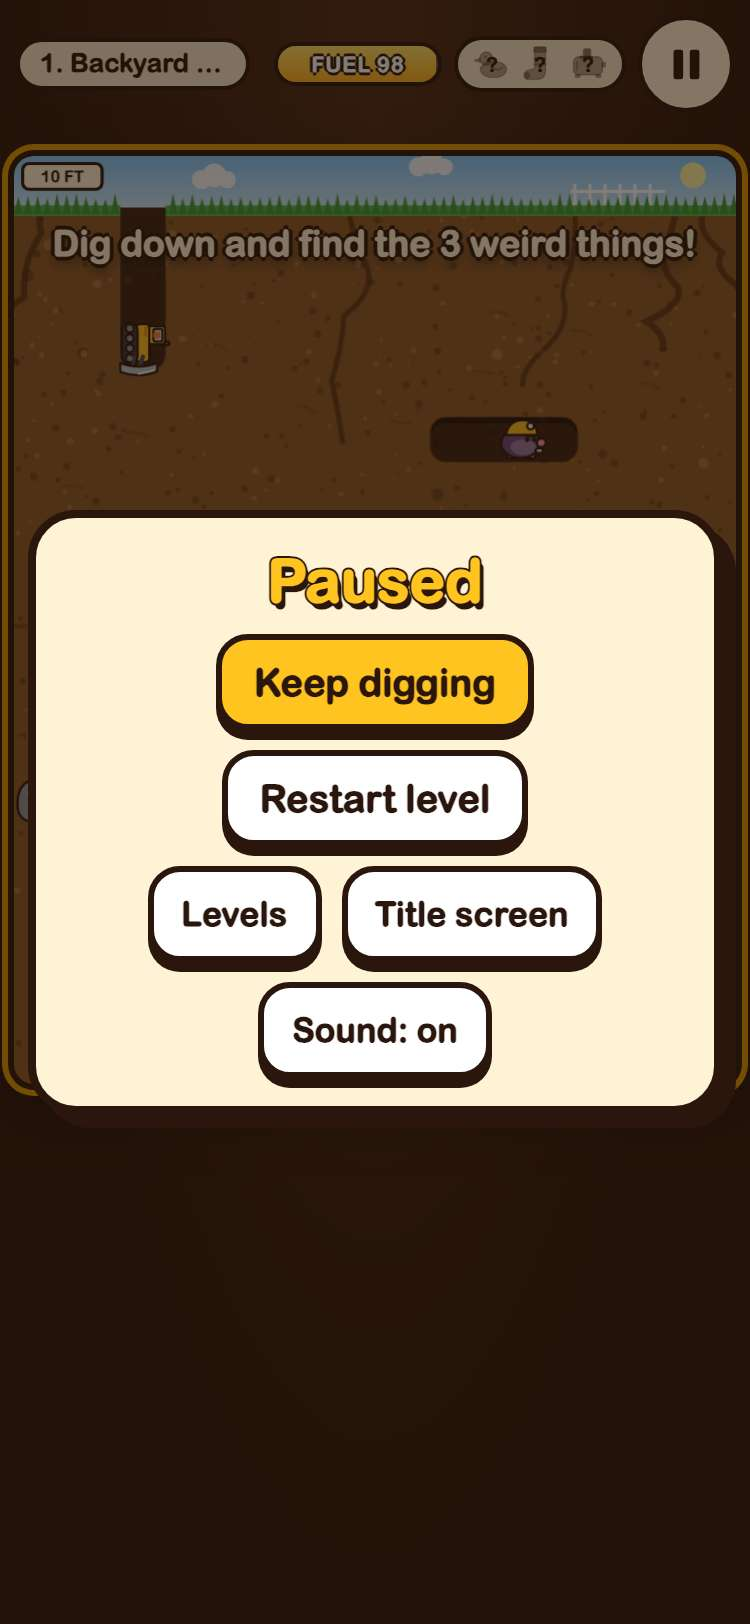
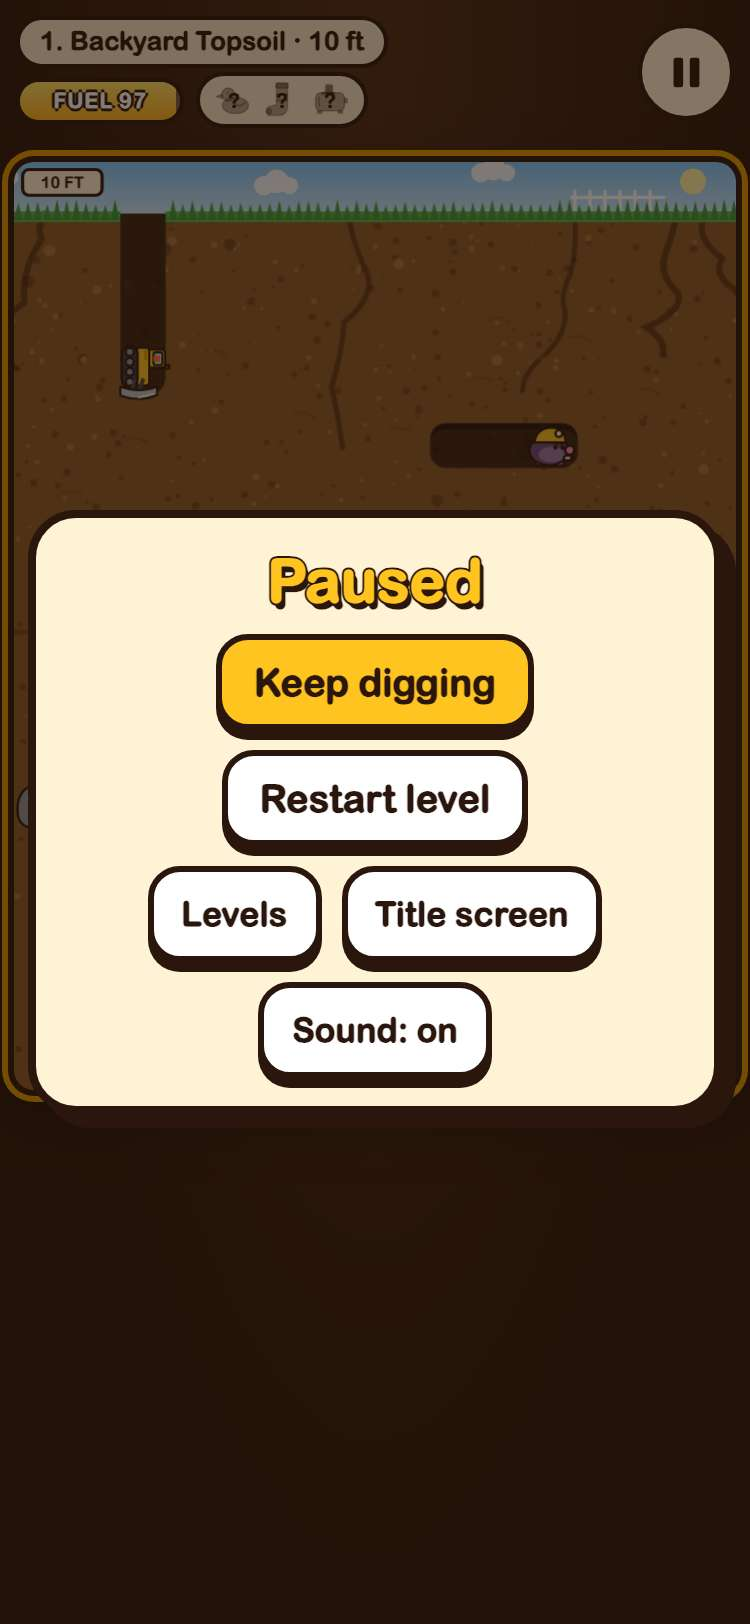
Check the HUD level label against jeremy.v1 and steady the WASD check
Each direction key now starts from the same dug spot on a fresh level.

diff --git a/evidence/217-big-weird-dig-jeremy-v2/index.html b/evidence/217-big-weird-dig-jeremy-v2/index.html
@@ -14,13 +14,14 @@ h1 { font-size: 24px; margin: 0 0 4px; } h2 { font-size: 19px; margin: 28px 0 6p
 .pair img.desktop { width: 640px; } .pair img.phone { width: 220px; }
 </style></head><body>
 <h1>Evidence: 217-big-weird-dig-jeremy-v2</h1>
-<p class="head">PASS: 7 of 7 checks pass at desktop and phone widths.</p>
-<p class="meta">Against the local server (python3 -m http.server) on this branch, from commit 10cdd8c, 2026-10-29 18:08 UTC. Spec: tests/evidence/217-big-weird-dig-jeremy-v2.spec.mjs.</p>
+<p class="head">PASS: 8 of 8 checks pass at desktop and phone widths.</p>
+<p class="meta">Against the local server (python3 -m http.server) on this branch, from commit 278140b, 2026-10-29 19:32 UTC. Spec: tests/evidence/217-big-weird-dig-jeremy-v2.spec.mjs.</p>
 <section><h2>1. jeremy.v2 opens to its title screen and starts level 1, with nothing loaded from the internet</h2><p><span class="s ok">Desktop 1280: pass</span> <span class="s ok">Phone 375: pass</span></p><ul><li>desktop: clicked Dig! and level 1 started; no requests outside the site; no sideways scrolling</li><li>phone: tapped Dig! and level 1 started; no requests outside the site; no sideways scrolling</li></ul><div class="pair"><a href="title-desktop.jpg"><img class="desktop" src="title-desktop.jpg" alt="jeremy.v2 opens to its title screen and starts level 1, with nothing loaded from the internet: title-desktop.jpg" loading="lazy"></a><a href="title-phone.jpg"><img class="phone" src="title-phone.jpg" alt="jeremy.v2 opens to its title screen and starts level 1, with nothing loaded from the internet: title-phone.jpg" loading="lazy"></a></div></section>
-<section><h2>2. every button meets the phone bar: Pause is 48 x 48 and 8 px from the edges, and Sound, Back, Levels and Title screen are 48 px tall</h2><p><span class="s ok">Desktop 1280: pass</span> <span class="s ok">Phone 375: pass</span></p><ul><li>desktop: Pause 48x48, 320 px from the right edge and 8 px from the top. #play-btn 93x52, #levels-btn 118x52, #museum-btn 207x52, #sound-btn 117x48, #levels-back 76x48, #museum-back 76x48, .slot &gt;&gt; nth=0 71x64, #resume-btn 190x52, #restart-btn 183x52, #pause-levels-btn 87x48, #pause-title-btn 131x48, #pause-sound-btn 117x48, #next-btn 168x52, #retry-btn 159x52, #done-museum-btn 155x48, #done-levels-btn 87x48, #empty-retry-btn 148x52, #empty-levels-btn 118x52. touchTargets() found no problems: title: 4 (smallest side 48 px); levels: 9 (smallest side 48 px); museum: 31 (smallest side 48 px); playing: 1 (smallest side 48 px); paused: 5 (smallest side 48 px); level done: 4 (smallest side 48 px); out of fuel: 2 (smallest side 52 px). Sound, Levels, Back, a museum slot, Dig!, Pause, Keep digging and Dig deeper each did their job when clicked</li><li>phone: Pause 48x48, 8 px from the right edge and 8 px from the top. #play-btn 75x48, #levels-btn 97x48, #museum-btn 173x48, #sound-btn 117x48, #levels-back 76x48, #museum-back 76x48, .slot &gt;&gt; nth=0 52x53, #resume-btn 159x48, #restart-btn 153x48, #pause-levels-btn 87x48, #pause-title-btn 131x48, #pause-sound-btn 117x48, #next-btn 140x48, #retry-btn 132x48, #done-museum-btn 155x48, #done-levels-btn 87x48, #empty-retry-btn 123x48, #empty-levels-btn 97x48. touchTargets() found no problems: title: 4 (smallest side 48 px); levels: 9 (smallest side 48 px); museum: 31 (smallest side 48 px); playing: 3 (smallest side 48 px); paused: 5 (smallest side 48 px); level done: 4 (smallest side 48 px); out of fuel: 2 (smallest side 48 px). Sound, Levels, Back, a museum slot, Dig!, Pause, Keep digging and Dig deeper each did their job when tapped; the d-pad drove the bulldozer down</li></ul><div class="pair"><a href="museum-desktop.jpg"><img class="desktop" src="museum-desktop.jpg" alt="every button meets the phone bar: Pause is 48 x 48 and 8 px from the edges, and Sound, Back, Levels and Title screen are 48 px tall: museum-desktop.jpg" loading="lazy"></a><a href="museum-phone.jpg"><img class="phone" src="museum-phone.jpg" alt="every button meets the phone bar: Pause is 48 x 48 and 8 px from the edges, and Sound, Back, Levels and Title screen are 48 px tall: museum-phone.jpg" loading="lazy"></a></div><div class="pair"><a href="playing-desktop.jpg"><img class="desktop" src="playing-desktop.jpg" alt="every button meets the phone bar: Pause is 48 x 48 and 8 px from the edges, and Sound, Back, Levels and Title screen are 48 px tall: playing-desktop.jpg" loading="lazy"></a><a href="playing-phone.jpg"><img class="phone" src="playing-phone.jpg" alt="every button meets the phone bar: Pause is 48 x 48 and 8 px from the edges, and Sound, Back, Levels and Title screen are 48 px tall: playing-phone.jpg" loading="lazy"></a></div><div class="pair"><a href="paused-desktop.jpg"><img class="desktop" src="paused-desktop.jpg" alt="every button meets the phone bar: Pause is 48 x 48 and 8 px from the edges, and Sound, Back, Levels and Title screen are 48 px tall: paused-desktop.jpg" loading="lazy"></a><a href="paused-phone.jpg"><img class="phone" src="paused-phone.jpg" alt="every button meets the phone bar: Pause is 48 x 48 and 8 px from the edges, and Sound, Back, Levels and Title screen are 48 px tall: paused-phone.jpg" loading="lazy"></a></div><div class="pair"><a href="done-desktop.jpg"><img class="desktop" src="done-desktop.jpg" alt="every button meets the phone bar: Pause is 48 x 48 and 8 px from the edges, and Sound, Back, Levels and Title screen are 48 px tall: done-desktop.jpg" loading="lazy"></a><a href="done-phone.jpg"><img class="phone" src="done-phone.jpg" alt="every button meets the phone bar: Pause is 48 x 48 and 8 px from the edges, and Sound, Back, Levels and Title screen are 48 px tall: done-phone.jpg" loading="lazy"></a></div></section>
+<section><h2>2. every button meets the phone bar: Pause is 48 x 48 and 8 px from the edges, and Sound, Back, Levels and Title screen are 48 px tall</h2><p><span class="s ok">Desktop 1280: pass</span> <span class="s ok">Phone 375: pass</span></p><ul><li>desktop: Pause 48x48, 320 px from the right edge and 8 px from the top. #play-btn 93x52, #levels-btn 118x52, #museum-btn 207x52, #sound-btn 117x48, #levels-back 76x48, #museum-back 76x48, .slot &gt;&gt; nth=0 71x64, #resume-btn 190x52, #restart-btn 183x52, #pause-levels-btn 87x48, #pause-title-btn 131x48, #pause-sound-btn 117x48, #next-btn 168x52, #retry-btn 159x52, #done-museum-btn 155x48, #done-levels-btn 87x48, #empty-retry-btn 148x52, #empty-levels-btn 118x52. touchTargets() found no problems: title: 4 (smallest side 48 px); levels: 9 (smallest side 48 px); museum: 31 (smallest side 48 px); playing: 1 (smallest side 48 px); paused: 5 (smallest side 48 px); level done: 4 (smallest side 48 px); out of fuel: 2 (smallest side 52 px). Sound, Levels, Back, a museum slot, Dig!, Pause, Keep digging and Dig deeper each did their job when clicked</li><li>phone: Pause 48x48, 8 px from the right edge and 12 px from the top. #play-btn 75x48, #levels-btn 97x48, #museum-btn 173x48, #sound-btn 117x48, #levels-back 76x48, #museum-back 76x48, .slot &gt;&gt; nth=0 52x53, #resume-btn 159x48, #restart-btn 153x48, #pause-levels-btn 87x48, #pause-title-btn 131x48, #pause-sound-btn 117x48, #next-btn 140x48, #retry-btn 132x48, #done-museum-btn 155x48, #done-levels-btn 87x48, #empty-retry-btn 123x48, #empty-levels-btn 97x48. touchTargets() found no problems: title: 4 (smallest side 48 px); levels: 9 (smallest side 48 px); museum: 31 (smallest side 48 px); playing: 3 (smallest side 48 px); paused: 5 (smallest side 48 px); level done: 4 (smallest side 48 px); out of fuel: 2 (smallest side 48 px). Sound, Levels, Back, a museum slot, Dig!, Pause, Keep digging and Dig deeper each did their job when tapped; the d-pad drove the bulldozer down</li></ul><div class="pair"><a href="museum-desktop.jpg"><img class="desktop" src="museum-desktop.jpg" alt="every button meets the phone bar: Pause is 48 x 48 and 8 px from the edges, and Sound, Back, Levels and Title screen are 48 px tall: museum-desktop.jpg" loading="lazy"></a><a href="museum-phone.jpg"><img class="phone" src="museum-phone.jpg" alt="every button meets the phone bar: Pause is 48 x 48 and 8 px from the edges, and Sound, Back, Levels and Title screen are 48 px tall: museum-phone.jpg" loading="lazy"></a></div><div class="pair"><a href="playing-desktop.jpg"><img class="desktop" src="playing-desktop.jpg" alt="every button meets the phone bar: Pause is 48 x 48 and 8 px from the edges, and Sound, Back, Levels and Title screen are 48 px tall: playing-desktop.jpg" loading="lazy"></a><a href="playing-phone.jpg"><img class="phone" src="playing-phone.jpg" alt="every button meets the phone bar: Pause is 48 x 48 and 8 px from the edges, and Sound, Back, Levels and Title screen are 48 px tall: playing-phone.jpg" loading="lazy"></a></div><div class="pair"><a href="paused-desktop.jpg"><img class="desktop" src="paused-desktop.jpg" alt="every button meets the phone bar: Pause is 48 x 48 and 8 px from the edges, and Sound, Back, Levels and Title screen are 48 px tall: paused-desktop.jpg" loading="lazy"></a><a href="paused-phone.jpg"><img class="phone" src="paused-phone.jpg" alt="every button meets the phone bar: Pause is 48 x 48 and 8 px from the edges, and Sound, Back, Levels and Title screen are 48 px tall: paused-phone.jpg" loading="lazy"></a></div><div class="pair"><a href="done-desktop.jpg"><img class="desktop" src="done-desktop.jpg" alt="every button meets the phone bar: Pause is 48 x 48 and 8 px from the edges, and Sound, Back, Levels and Title screen are 48 px tall: done-desktop.jpg" loading="lazy"></a><a href="done-phone.jpg"><img class="phone" src="done-phone.jpg" alt="every button meets the phone bar: Pause is 48 x 48 and 8 px from the edges, and Sound, Back, Levels and Title screen are 48 px tall: done-phone.jpg" loading="lazy"></a></div></section>
 <section><h2>3. Enter and Space each press the main button on the title, pause, level-done and out-of-fuel screens</h2><p><span class="s ok">Desktop 1280: pass</span> <span class="s ok">Phone 375: pass</span></p><ul><li>desktop: Enter: title → level 1, pause → playing, level done → level 2, out of fuel → level 2 again with a full tank. Space: title → level 1, pause → playing, level done → level 2, out of fuel → level 2 again with a full tank. with Restart level focused, Enter restarted the level instead; a Space pressed as the done screen opened left it open</li><li>phone: Enter: title → level 1, pause → playing, level done → level 2, out of fuel → level 2 again with a full tank. Space: title → level 1, pause → playing, level done → level 2, out of fuel → level 2 again with a full tank. with Restart level focused, Enter restarted the level instead; a Space pressed as the done screen opened left it open</li></ul><div class="pair"><a href="enter-done-desktop.jpg"><img class="desktop" src="enter-done-desktop.jpg" alt="Enter and Space each press the main button on the title, pause, level-done and out-of-fuel screens: enter-done-desktop.jpg" loading="lazy"></a><a href="enter-done-phone.jpg"><img class="phone" src="enter-done-phone.jpg" alt="Enter and Space each press the main button on the title, pause, level-done and out-of-fuel screens: enter-done-phone.jpg" loading="lazy"></a></div></section>
-<section><h2>4. WASD and the arrow keys both drive the bulldozer, and P pauses</h2><p><span class="s ok">Desktop 1280: pass</span> <span class="s ok">Phone 375: pass</span></p><ul><li>desktop: x, y, facing: s: 2.00,0.00,r → 2.00,1.30,d; ArrowDown: 2.00,1.30,d → 2.00,2.61,d; d: 2.00,2.61,d → 2.91,3.00,r; ArrowRight: 2.91,3.00,r → 4.21,3.00,r; a: 4.21,3.00,r → 2.38,3.00,l; ArrowLeft: 2.38,3.00,l → 0.95,3.00,l; w: 0.95,3.00,l → 1.00,1.87,u; ArrowUp: 1.00,1.87,u → 1.00,0.44,u. P paused and P again carried on</li><li>phone: x, y, facing: s: 2.00,0.00,r → 2.00,1.36,d; ArrowDown: 2.00,1.36,d → 2.00,2.72,d; d: 2.00,2.72,d → 3.02,3.00,r; ArrowRight: 3.02,3.00,r → 4.27,3.00,r; a: 4.27,3.00,r → 2.35,3.00,l; ArrowLeft: 2.35,3.00,l → 0.93,3.00,l; w: 0.93,3.00,l → 1.00,1.81,u; ArrowUp: 1.00,1.81,u → 1.00,0.27,u. P paused and P again carried on</li></ul><div class="pair"><a href="keys-desktop.jpg"><img class="desktop" src="keys-desktop.jpg" alt="WASD and the arrow keys both drive the bulldozer, and P pauses: keys-desktop.jpg" loading="lazy"></a><a href="keys-phone.jpg"><img class="phone" src="keys-phone.jpg" alt="WASD and the arrow keys both drive the bulldozer, and P pauses: keys-phone.jpg" loading="lazy"></a></div></section>
-<section><h2>5. jeremy.v1's saves carry over: v2 shows its museum, levels and sound setting, and v1 reads back what v2 adds</h2><p><span class="s ok">Desktop 1280: pass</span> <span class="s ok">Phone 375: pass</span></p><ul><li>desktop: seeded jeremy.v1's museum (duck, sock, toaster), level 2 unlocked with 3 stars on level 1, and sound off: v2 showed all three; Dig! went on at level 2, and clearing it unlocked level 3 under the same keys (gameon.big-weird-dig.museum, gameon.big-weird-dig.progress, gameon.big-weird-dig.sound; nothing new); jeremy.v1 then showed level 3 unlocked and sound off</li><li>phone: seeded jeremy.v1's museum (duck, sock, toaster), level 2 unlocked with 3 stars on level 1, and sound off: v2 showed all three; Dig! went on at level 2, and clearing it unlocked level 3 under the same keys (gameon.big-weird-dig.museum, gameon.big-weird-dig.progress, gameon.big-weird-dig.sound; nothing new); jeremy.v1 then showed level 3 unlocked and sound off</li></ul><div class="pair"><a href="v1-saves-desktop.jpg"><img class="desktop" src="v1-saves-desktop.jpg" alt="jeremy.v1's saves carry over: v2 shows its museum, levels and sound setting, and v1 reads back what v2 adds: v1-saves-desktop.jpg" loading="lazy"></a><a href="v1-saves-phone.jpg"><img class="phone" src="v1-saves-phone.jpg" alt="jeremy.v1's saves carry over: v2 shows its museum, levels and sound setting, and v1 reads back what v2 adds: v1-saves-phone.jpg" loading="lazy"></a></div></section>
-<section><h2>6. jeremy.v1 still plays at games/big-weird-dig/, unchanged</h2><p><span class="s ok">Desktop 1280: pass</span> <span class="s ok">Phone 375: pass</span></p><ul><li>desktop: jeremy.v1 at games/big-weird-dig/: its title, Dig!, and the arrow keys dug a tunnel; its Pause button is still 28x28, as before</li><li>phone: jeremy.v1 at games/big-weird-dig/: its title, Dig!, and the arrow keys dug a tunnel; its Pause button is still 28x28, as before</li></ul><div class="pair"><a href="v1-plays-desktop.jpg"><img class="desktop" src="v1-plays-desktop.jpg" alt="jeremy.v1 still plays at games/big-weird-dig/, unchanged: v1-plays-desktop.jpg" loading="lazy"></a><a href="v1-plays-phone.jpg"><img class="phone" src="v1-plays-phone.jpg" alt="jeremy.v1 still plays at games/big-weird-dig/, unchanged: v1-plays-phone.jpg" loading="lazy"></a></div></section>
-<section><h2>7. in the arcade, Big Weird Dig plays jeremy.v2 by default and the picker still offers jeremy.v1</h2><p><span class="s ok">Desktop 1280: pass</span> <span class="s ok">Phone 375: pass</span></p><ul><li>desktop: card (2 versions) → picker: jeremy.v2 first with its note, then jeremy.v1 → jeremy.v2 plays in the frame; #big-weird-dig@jeremy.v1 opens jeremy.v1</li><li>phone: card (2 versions) → picker: jeremy.v2 first with its note, then jeremy.v1 → jeremy.v2 plays in the frame; #big-weird-dig@jeremy.v1 opens jeremy.v1</li></ul><div class="pair"><a href="arcade-desktop.jpg"><img class="desktop" src="arcade-desktop.jpg" alt="in the arcade, Big Weird Dig plays jeremy.v2 by default and the picker still offers jeremy.v1: arcade-desktop.jpg" loading="lazy"></a><a href="arcade-phone.jpg"><img class="phone" src="arcade-phone.jpg" alt="in the arcade, Big Weird Dig plays jeremy.v2 by default and the picker still offers jeremy.v1: arcade-phone.jpg" loading="lazy"></a></div></section>
+<section><h2>4. WASD and the arrow keys both drive the bulldozer the same way, and P pauses</h2><p><span class="s ok">Desktop 1280: pass</span> <span class="s ok">Phone 375: pass</span></p><ul><li>desktop: from the same spot each time (x, y): s: 2.00,2.55 → 2.00,5.33; ArrowDown: 2.00,2.27 → 2.00,4.31; d: 2.00,2.61 → 3.98,3.00; ArrowRight: 2.00,2.95 → 4.15,3.00; a: 2.00,3.40 → 0.19,3.00; ArrowLeft: 2.00,2.66 → 0.07,3.00; w: 2.00,4.53 → 2.00,1.03; ArrowUp: 2.00,3.40 → 2.00,0.00. P paused and P again carried on</li><li>phone: from the same spot each time (x, y): s: 2.00,2.21 → 2.00,3.74; ArrowDown: 2.00,2.44 → 2.00,4.14; d: 2.00,2.38 → 3.30,2.00; ArrowRight: 2.00,2.21 → 3.64,2.00; a: 2.00,2.21 → 0.64,2.00; ArrowLeft: 2.00,2.38 → 0.13,2.00; w: 2.00,2.32 → 2.00,0.16; ArrowUp: 2.00,2.15 → 2.00,0.00. P paused and P again carried on</li></ul><div class="pair"><a href="keys-desktop.jpg"><img class="desktop" src="keys-desktop.jpg" alt="WASD and the arrow keys both drive the bulldozer the same way, and P pauses: keys-desktop.jpg" loading="lazy"></a><a href="keys-phone.jpg"><img class="phone" src="keys-phone.jpg" alt="WASD and the arrow keys both drive the bulldozer the same way, and P pauses: keys-phone.jpg" loading="lazy"></a></div></section>
+<section><h2>5. the HUD's level name has at least jeremy.v1's room on every level at 375 and 320 px, with fuel, finds and the board no smaller</h2><p><span class="s ok">Desktop 1280: pass</span> <span class="s ok">Phone 375: pass</span></p><ul><li>desktop: 375 px, #hud-level v1 → v2: 1: 137 (cut) → 182, 2: 137 (cut) → 155, 3: 113 (cut) → 149, 4: 113 (cut) → 180, 5: 113 (cut) → 187, 6: 113 (cut) → 154, 7: 113 (cut) → 169, 8: 113 (cut) → 228; fuel 84 → 84; board 361x464 → 361x464. 320 px, #hud-level v1 → v2: 1: 82 (cut) → 182, 2: 82 (cut) → 155, 3: 58 (cut) → 149, 4: 58 (cut) → 180, 5: 58 (cut) → 187, 6: 58 (cut) → 154, 7: 58 (cut) → 169, 8: 58 (cut) → 228; fuel 84 → 84; board 308x396 → 308x396. Every name shows whole in v2</li><li>phone: 375 px, #hud-level v1 → v2: 1: 137 (cut) → 182, 2: 137 (cut) → 155, 3: 113 (cut) → 149, 4: 113 (cut) → 180, 5: 113 (cut) → 187, 6: 113 (cut) → 154, 7: 113 (cut) → 169, 8: 113 (cut) → 228; fuel 84 → 84; board 361x464 → 361x464. 320 px, #hud-level v1 → v2: 1: 82 (cut) → 182, 2: 82 (cut) → 155, 3: 58 (cut) → 149, 4: 58 (cut) → 180, 5: 58 (cut) → 187, 6: 58 (cut) → 154, 7: 58 (cut) → 169, 8: 58 (cut) → 228; fuel 84 → 84; board 308x396 → 308x396. Every name shows whole in v2</li></ul><div class="pair"><a href="hud-375-desktop.jpg"><img class="desktop" src="hud-375-desktop.jpg" alt="the HUD's level name has at least jeremy.v1's room on every level at 375 and 320 px, with fuel, finds and the board no smaller: hud-375-desktop.jpg" loading="lazy"></a><a href="hud-375-phone.jpg"><img class="phone" src="hud-375-phone.jpg" alt="the HUD's level name has at least jeremy.v1's room on every level at 375 and 320 px, with fuel, finds and the board no smaller: hud-375-phone.jpg" loading="lazy"></a></div></section>
+<section><h2>6. jeremy.v1's saves carry over: v2 shows its museum, levels and sound setting, and v1 reads back what v2 adds</h2><p><span class="s ok">Desktop 1280: pass</span> <span class="s ok">Phone 375: pass</span></p><ul><li>desktop: seeded jeremy.v1's museum (duck, sock, toaster), level 2 unlocked with 3 stars on level 1, and sound off: v2 showed all three; Dig! went on at level 2, and clearing it unlocked level 3 under the same keys (gameon.big-weird-dig.museum, gameon.big-weird-dig.progress, gameon.big-weird-dig.sound; nothing new); jeremy.v1 then showed level 3 unlocked and sound off</li><li>phone: seeded jeremy.v1's museum (duck, sock, toaster), level 2 unlocked with 3 stars on level 1, and sound off: v2 showed all three; Dig! went on at level 2, and clearing it unlocked level 3 under the same keys (gameon.big-weird-dig.museum, gameon.big-weird-dig.progress, gameon.big-weird-dig.sound; nothing new); jeremy.v1 then showed level 3 unlocked and sound off</li></ul><div class="pair"><a href="v1-saves-desktop.jpg"><img class="desktop" src="v1-saves-desktop.jpg" alt="jeremy.v1's saves carry over: v2 shows its museum, levels and sound setting, and v1 reads back what v2 adds: v1-saves-desktop.jpg" loading="lazy"></a><a href="v1-saves-phone.jpg"><img class="phone" src="v1-saves-phone.jpg" alt="jeremy.v1's saves carry over: v2 shows its museum, levels and sound setting, and v1 reads back what v2 adds: v1-saves-phone.jpg" loading="lazy"></a></div></section>
+<section><h2>7. jeremy.v1 still plays at games/big-weird-dig/, unchanged</h2><p><span class="s ok">Desktop 1280: pass</span> <span class="s ok">Phone 375: pass</span></p><ul><li>desktop: jeremy.v1 at games/big-weird-dig/: its title, Dig!, and the arrow keys dug a tunnel; its Pause button is still 28x28, as before</li><li>phone: jeremy.v1 at games/big-weird-dig/: its title, Dig!, and the arrow keys dug a tunnel; its Pause button is still 28x28, as before</li></ul><div class="pair"><a href="v1-plays-desktop.jpg"><img class="desktop" src="v1-plays-desktop.jpg" alt="jeremy.v1 still plays at games/big-weird-dig/, unchanged: v1-plays-desktop.jpg" loading="lazy"></a><a href="v1-plays-phone.jpg"><img class="phone" src="v1-plays-phone.jpg" alt="jeremy.v1 still plays at games/big-weird-dig/, unchanged: v1-plays-phone.jpg" loading="lazy"></a></div></section>
+<section><h2>8. in the arcade, Big Weird Dig plays jeremy.v2 by default and the picker still offers jeremy.v1</h2><p><span class="s ok">Desktop 1280: pass</span> <span class="s ok">Phone 375: pass</span></p><ul><li>desktop: card (2 versions) → picker: jeremy.v2 first with its note, then jeremy.v1 → jeremy.v2 plays in the frame; #big-weird-dig@jeremy.v1 opens jeremy.v1</li><li>phone: card (2 versions) → picker: jeremy.v2 first with its note, then jeremy.v1 → jeremy.v2 plays in the frame; #big-weird-dig@jeremy.v1 opens jeremy.v1</li></ul><div class="pair"><a href="arcade-desktop.jpg"><img class="desktop" src="arcade-desktop.jpg" alt="in the arcade, Big Weird Dig plays jeremy.v2 by default and the picker still offers jeremy.v1: arcade-desktop.jpg" loading="lazy"></a><a href="arcade-phone.jpg"><img class="phone" src="arcade-phone.jpg" alt="in the arcade, Big Weird Dig plays jeremy.v2 by default and the picker still offers jeremy.v1: arcade-phone.jpg" loading="lazy"></a></div></section>
 </body></html>

diff --git a/evidence/217-big-weird-dig-jeremy-v2/README.md b/evidence/217-big-weird-dig-jeremy-v2/README.md
@@ -1,15 +1,16 @@
 # Evidence: 217-big-weird-dig-jeremy-v2
 
-**PASS: 7 of 7 checks pass at desktop and phone widths.**
+**PASS: 8 of 8 checks pass at desktop and phone widths.**
 
-Generated by `npm run evidence -- 217-big-weird-dig-jeremy-v2` from [`tests/evidence/217-big-weird-dig-jeremy-v2.spec.mjs`](../../tests/evidence/217-big-weird-dig-jeremy-v2.spec.mjs) against the local server (python3 -m http.server) on this branch, starting from commit 10cdd8c, 2026-10-29 18:08 UTC. Rules: [docs/evidence.md](../../docs/evidence.md).
+Generated by `npm run evidence -- 217-big-weird-dig-jeremy-v2` from [`tests/evidence/217-big-weird-dig-jeremy-v2.spec.mjs`](../../tests/evidence/217-big-weird-dig-jeremy-v2.spec.mjs) against the local server (python3 -m http.server) on this branch, starting from commit 278140b, 2026-10-29 19:32 UTC. Rules: [docs/evidence.md](../../docs/evidence.md).
 
 | Check | Desktop 1280 | Phone 375 |
 |---|---|---|
 | jeremy.v2 opens to its title screen and starts level 1, with nothing loaded from the internet | pass | pass |
 | every button meets the phone bar: Pause is 48 x 48 and 8 px from the edges, and Sound, Back, Levels and Title screen are 48 px tall | pass | pass |
 | Enter and Space each press the main button on the title, pause, level-done and out-of-fuel screens | pass | pass |
-| WASD and the arrow keys both drive the bulldozer, and P pauses | pass | pass |
+| WASD and the arrow keys both drive the bulldozer the same way, and P pauses | pass | pass |
+| the HUD's level name has at least jeremy.v1's room on every level at 375 and 320 px, with fuel, finds and the board no smaller | pass | pass |
 | jeremy.v1's saves carry over: v2 shows its museum, levels and sound setting, and v1 reads back what v2 adds | pass | pass |
 | jeremy.v1 still plays at games/big-weird-dig/, unchanged | pass | pass |
 | in the arcade, Big Weird Dig plays jeremy.v2 by default and the picker still offers jeremy.v1 | pass | pass |
@@ -24,7 +25,7 @@ Generated by `npm run evidence -- 217-big-weird-dig-jeremy-v2` from [`tests/evid
 ## 2. every button meets the phone bar: Pause is 48 x 48 and 8 px from the edges, and Sound, Back, Levels and Title screen are 48 px tall
 
 - desktop: Pause 48x48, 320 px from the right edge and 8 px from the top. #play-btn 93x52, #levels-btn 118x52, #museum-btn 207x52, #sound-btn 117x48, #levels-back 76x48, #museum-back 76x48, .slot >> nth=0 71x64, #resume-btn 190x52, #restart-btn 183x52, #pause-levels-btn 87x48, #pause-title-btn 131x48, #pause-sound-btn 117x48, #next-btn 168x52, #retry-btn 159x52, #done-museum-btn 155x48, #done-levels-btn 87x48, #empty-retry-btn 148x52, #empty-levels-btn 118x52. touchTargets() found no problems: title: 4 (smallest side 48 px); levels: 9 (smallest side 48 px); museum: 31 (smallest side 48 px); playing: 1 (smallest side 48 px); paused: 5 (smallest side 48 px); level done: 4 (smallest side 48 px); out of fuel: 2 (smallest side 52 px). Sound, Levels, Back, a museum slot, Dig!, Pause, Keep digging and Dig deeper each did their job when clicked
-- phone: Pause 48x48, 8 px from the right edge and 8 px from the top. #play-btn 75x48, #levels-btn 97x48, #museum-btn 173x48, #sound-btn 117x48, #levels-back 76x48, #museum-back 76x48, .slot >> nth=0 52x53, #resume-btn 159x48, #restart-btn 153x48, #pause-levels-btn 87x48, #pause-title-btn 131x48, #pause-sound-btn 117x48, #next-btn 140x48, #retry-btn 132x48, #done-museum-btn 155x48, #done-levels-btn 87x48, #empty-retry-btn 123x48, #empty-levels-btn 97x48. touchTargets() found no problems: title: 4 (smallest side 48 px); levels: 9 (smallest side 48 px); museum: 31 (smallest side 48 px); playing: 3 (smallest side 48 px); paused: 5 (smallest side 48 px); level done: 4 (smallest side 48 px); out of fuel: 2 (smallest side 48 px). Sound, Levels, Back, a museum slot, Dig!, Pause, Keep digging and Dig deeper each did their job when tapped; the d-pad drove the bulldozer down
+- phone: Pause 48x48, 8 px from the right edge and 12 px from the top. #play-btn 75x48, #levels-btn 97x48, #museum-btn 173x48, #sound-btn 117x48, #levels-back 76x48, #museum-back 76x48, .slot >> nth=0 52x53, #resume-btn 159x48, #restart-btn 153x48, #pause-levels-btn 87x48, #pause-title-btn 131x48, #pause-sound-btn 117x48, #next-btn 140x48, #retry-btn 132x48, #done-museum-btn 155x48, #done-levels-btn 87x48, #empty-retry-btn 123x48, #empty-levels-btn 97x48. touchTargets() found no problems: title: 4 (smallest side 48 px); levels: 9 (smallest side 48 px); museum: 31 (smallest side 48 px); playing: 3 (smallest side 48 px); paused: 5 (smallest side 48 px); level done: 4 (smallest side 48 px); out of fuel: 2 (smallest side 48 px). Sound, Levels, Back, a museum slot, Dig!, Pause, Keep digging and Dig deeper each did their job when tapped; the d-pad drove the bulldozer down
 
 <img src="museum-desktop.jpg" alt="every button meets the phone bar: Pause is 48 x 48 and 8 px from the edges, and Sound, Back, Levels and Title screen are 48 px tall: museum-desktop.jpg" width="560"> <img src="museum-phone.jpg" alt="every button meets the phone bar: Pause is 48 x 48 and 8 px from the edges, and Sound, Back, Levels and Title screen are 48 px tall: museum-phone.jpg" width="240">
 
@@ -41,28 +42,35 @@ Generated by `npm run evidence -- 217-big-weird-dig-jeremy-v2` from [`tests/evid
 
 <img src="enter-done-desktop.jpg" alt="Enter and Space each press the main button on the title, pause, level-done and out-of-fuel screens: enter-done-desktop.jpg" width="560"> <img src="enter-done-phone.jpg" alt="Enter and Space each press the main button on the title, pause, level-done and out-of-fuel screens: enter-done-phone.jpg" width="240">
 
-## 4. WASD and the arrow keys both drive the bulldozer, and P pauses
+## 4. WASD and the arrow keys both drive the bulldozer the same way, and P pauses
 
-- desktop: x, y, facing: s: 2.00,0.00,r → 2.00,1.30,d; ArrowDown: 2.00,1.30,d → 2.00,2.61,d; d: 2.00,2.61,d → 2.91,3.00,r; ArrowRight: 2.91,3.00,r → 4.21,3.00,r; a: 4.21,3.00,r → 2.38,3.00,l; ArrowLeft: 2.38,3.00,l → 0.95,3.00,l; w: 0.95,3.00,l → 1.00,1.87,u; ArrowUp: 1.00,1.87,u → 1.00,0.44,u. P paused and P again carried on
-- phone: x, y, facing: s: 2.00,0.00,r → 2.00,1.36,d; ArrowDown: 2.00,1.36,d → 2.00,2.72,d; d: 2.00,2.72,d → 3.02,3.00,r; ArrowRight: 3.02,3.00,r → 4.27,3.00,r; a: 4.27,3.00,r → 2.35,3.00,l; ArrowLeft: 2.35,3.00,l → 0.93,3.00,l; w: 0.93,3.00,l → 1.00,1.81,u; ArrowUp: 1.00,1.81,u → 1.00,0.27,u. P paused and P again carried on
+- desktop: from the same spot each time (x, y): s: 2.00,2.55 → 2.00,5.33; ArrowDown: 2.00,2.27 → 2.00,4.31; d: 2.00,2.61 → 3.98,3.00; ArrowRight: 2.00,2.95 → 4.15,3.00; a: 2.00,3.40 → 0.19,3.00; ArrowLeft: 2.00,2.66 → 0.07,3.00; w: 2.00,4.53 → 2.00,1.03; ArrowUp: 2.00,3.40 → 2.00,0.00. P paused and P again carried on
+- phone: from the same spot each time (x, y): s: 2.00,2.21 → 2.00,3.74; ArrowDown: 2.00,2.44 → 2.00,4.14; d: 2.00,2.38 → 3.30,2.00; ArrowRight: 2.00,2.21 → 3.64,2.00; a: 2.00,2.21 → 0.64,2.00; ArrowLeft: 2.00,2.38 → 0.13,2.00; w: 2.00,2.32 → 2.00,0.16; ArrowUp: 2.00,2.15 → 2.00,0.00. P paused and P again carried on
 
-<img src="keys-desktop.jpg" alt="WASD and the arrow keys both drive the bulldozer, and P pauses: keys-desktop.jpg" width="560"> <img src="keys-phone.jpg" alt="WASD and the arrow keys both drive the bulldozer, and P pauses: keys-phone.jpg" width="240">
+<img src="keys-desktop.jpg" alt="WASD and the arrow keys both drive the bulldozer the same way, and P pauses: keys-desktop.jpg" width="560"> <img src="keys-phone.jpg" alt="WASD and the arrow keys both drive the bulldozer the same way, and P pauses: keys-phone.jpg" width="240">
 
-## 5. jeremy.v1's saves carry over: v2 shows its museum, levels and sound setting, and v1 reads back what v2 adds
+## 5. the HUD's level name has at least jeremy.v1's room on every level at 375 and 320 px, with fuel, finds and the board no smaller
+
+- desktop: 375 px, #hud-level v1 → v2: 1: 137 (cut) → 182, 2: 137 (cut) → 155, 3: 113 (cut) → 149, 4: 113 (cut) → 180, 5: 113 (cut) → 187, 6: 113 (cut) → 154, 7: 113 (cut) → 169, 8: 113 (cut) → 228; fuel 84 → 84; board 361x464 → 361x464. 320 px, #hud-level v1 → v2: 1: 82 (cut) → 182, 2: 82 (cut) → 155, 3: 58 (cut) → 149, 4: 58 (cut) → 180, 5: 58 (cut) → 187, 6: 58 (cut) → 154, 7: 58 (cut) → 169, 8: 58 (cut) → 228; fuel 84 → 84; board 308x396 → 308x396. Every name shows whole in v2
+- phone: 375 px, #hud-level v1 → v2: 1: 137 (cut) → 182, 2: 137 (cut) → 155, 3: 113 (cut) → 149, 4: 113 (cut) → 180, 5: 113 (cut) → 187, 6: 113 (cut) → 154, 7: 113 (cut) → 169, 8: 113 (cut) → 228; fuel 84 → 84; board 361x464 → 361x464. 320 px, #hud-level v1 → v2: 1: 82 (cut) → 182, 2: 82 (cut) → 155, 3: 58 (cut) → 149, 4: 58 (cut) → 180, 5: 58 (cut) → 187, 6: 58 (cut) → 154, 7: 58 (cut) → 169, 8: 58 (cut) → 228; fuel 84 → 84; board 308x396 → 308x396. Every name shows whole in v2
+
+<img src="hud-375-desktop.jpg" alt="the HUD's level name has at least jeremy.v1's room on every level at 375 and 320 px, with fuel, finds and the board no smaller: hud-375-desktop.jpg" width="560"> <img src="hud-375-phone.jpg" alt="the HUD's level name has at least jeremy.v1's room on every level at 375 and 320 px, with fuel, finds and the board no smaller: hud-375-phone.jpg" width="240">
+
+## 6. jeremy.v1's saves carry over: v2 shows its museum, levels and sound setting, and v1 reads back what v2 adds
 
 - desktop: seeded jeremy.v1's museum (duck, sock, toaster), level 2 unlocked with 3 stars on level 1, and sound off: v2 showed all three; Dig! went on at level 2, and clearing it unlocked level 3 under the same keys (gameon.big-weird-dig.museum, gameon.big-weird-dig.progress, gameon.big-weird-dig.sound; nothing new); jeremy.v1 then showed level 3 unlocked and sound off
 - phone: seeded jeremy.v1's museum (duck, sock, toaster), level 2 unlocked with 3 stars on level 1, and sound off: v2 showed all three; Dig! went on at level 2, and clearing it unlocked level 3 under the same keys (gameon.big-weird-dig.museum, gameon.big-weird-dig.progress, gameon.big-weird-dig.sound; nothing new); jeremy.v1 then showed level 3 unlocked and sound off
 
 <img src="v1-saves-desktop.jpg" alt="jeremy.v1's saves carry over: v2 shows its museum, levels and sound setting, and v1 reads back what v2 adds: v1-saves-desktop.jpg" width="560"> <img src="v1-saves-phone.jpg" alt="jeremy.v1's saves carry over: v2 shows its museum, levels and sound setting, and v1 reads back what v2 adds: v1-saves-phone.jpg" width="240">
 
-## 6. jeremy.v1 still plays at games/big-weird-dig/, unchanged
+## 7. jeremy.v1 still plays at games/big-weird-dig/, unchanged
 
 - desktop: jeremy.v1 at games/big-weird-dig/: its title, Dig!, and the arrow keys dug a tunnel; its Pause button is still 28x28, as before
 - phone: jeremy.v1 at games/big-weird-dig/: its title, Dig!, and the arrow keys dug a tunnel; its Pause button is still 28x28, as before
 
 <img src="v1-plays-desktop.jpg" alt="jeremy.v1 still plays at games/big-weird-dig/, unchanged: v1-plays-desktop.jpg" width="560"> <img src="v1-plays-phone.jpg" alt="jeremy.v1 still plays at games/big-weird-dig/, unchanged: v1-plays-phone.jpg" width="240">
 
-## 7. in the arcade, Big Weird Dig plays jeremy.v2 by default and the picker still offers jeremy.v1
+## 8. in the arcade, Big Weird Dig plays jeremy.v2 by default and the picker still offers jeremy.v1
 
 - desktop: card (2 versions) → picker: jeremy.v2 first with its note, then jeremy.v1 → jeremy.v2 plays in the frame; #big-weird-dig@jeremy.v1 opens jeremy.v1
 - phone: card (2 versions) → picker: jeremy.v2 first with its note, then jeremy.v1 → jeremy.v2 plays in the frame; #big-weird-dig@jeremy.v1 opens jeremy.v1
